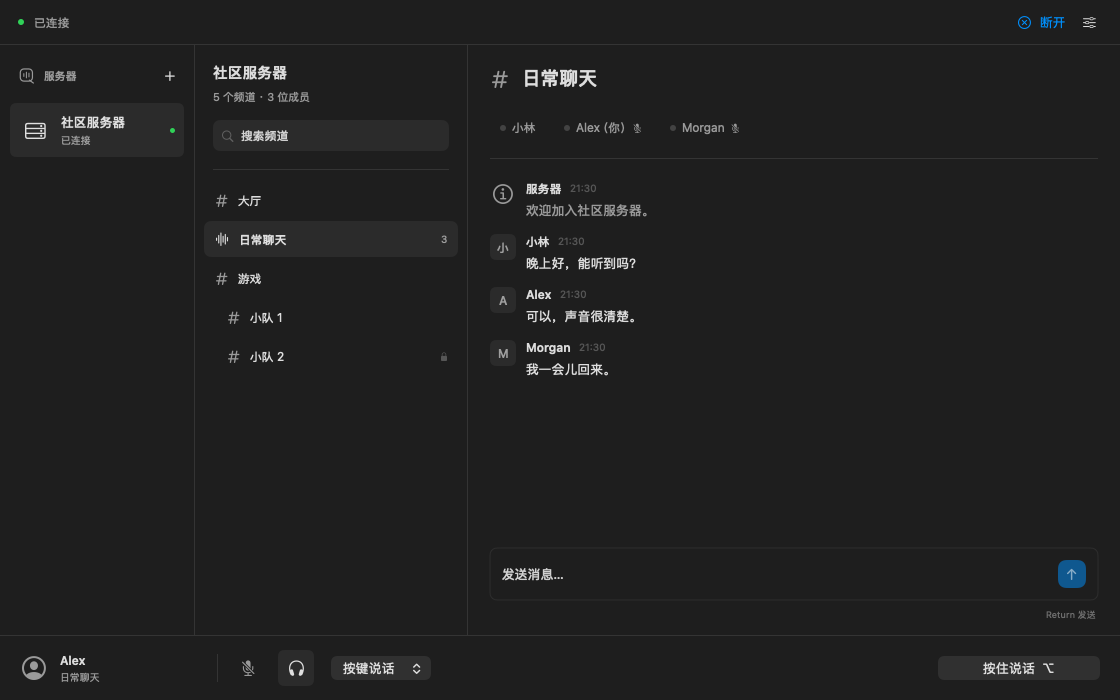
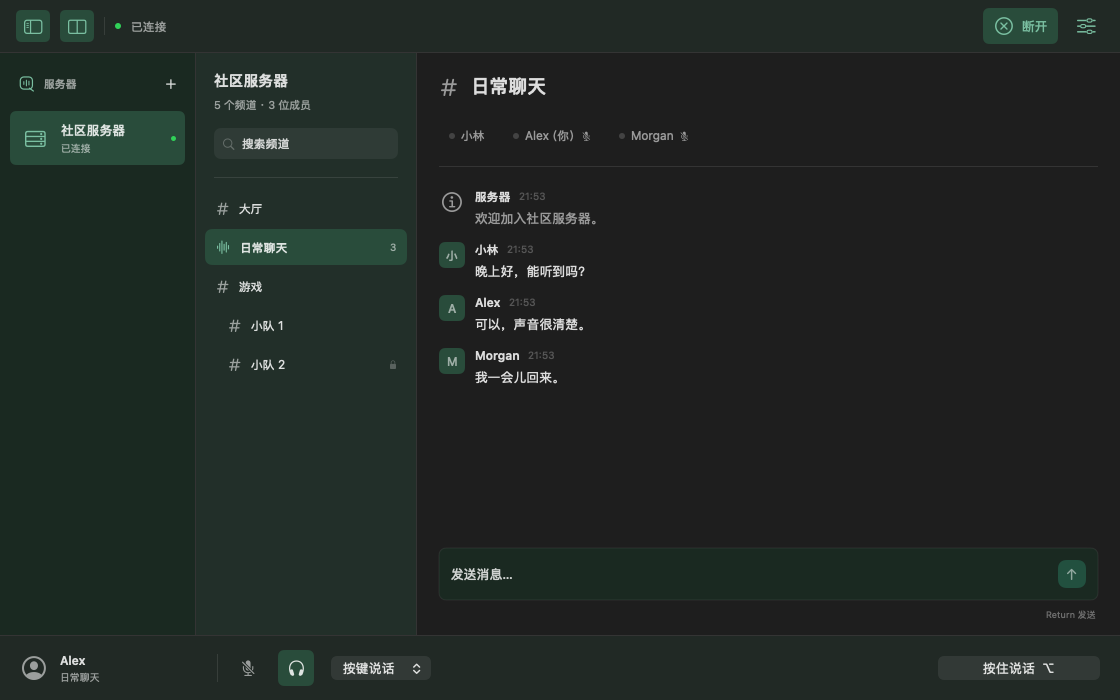
Restore green appearance and collapsible native panes in 0.1.5

diff --git a/Native/MainView.swift b/Native/MainView.swift
@@ -7,20 +7,26 @@ struct MainView: View {
     @State private var adding = false
     @State private var lockedChannel: Channel?
     @State private var channelPassword = ""
+    @AppStorage("showServerSidebar") private var showServers = true
+    @AppStorage("showChannelSidebar") private var showChannels = true
     var body: some View {
         VStack(spacing: 0) {
             header
             Divider()
-            HStack(spacing: 0) {
-                servers.frame(width: 194)
-                Divider()
-                channelList.frame(width: 272)
-                Divider()
-                conversation.frame(maxWidth: .infinity, maxHeight: .infinity)
+            HSplitView {
+                if showServers {
+                    servers.frame(minWidth: 170, idealWidth: 194, maxWidth: 260)
+                }
+                if showChannels {
+                    channelList.frame(minWidth: 220, idealWidth: 272, maxWidth: 360)
+                }
+                conversation.frame(minWidth: 360, maxWidth: .infinity, maxHeight: .infinity)
+                    .layoutPriority(1)
             }
             Divider()
             voiceBar
         }
+        .frame(minWidth: showServers && showChannels ? 920 : 680)
         .background(Palette.canvas)
         .sheet(isPresented: $client.showConnection) {
             ConnectionSheet(bookmark: client.selectedServer, isNew: false).environmentObject(client)
@@ -68,37 +74,58 @@ struct MainView: View {
     }
     private var header: some View {
         HStack(spacing: 10) {
+            sidebarButton("sidebar.left", name: "服务器栏", visible: $showServers)
+            sidebarButton("rectangle.split.2x1", name: "频道栏", visible: $showChannels)
+            Divider().frame(height: 18)
             Circle().fill(client.connected ? Palette.speaking : Color.secondary.opacity(0.4))
                 .frame(width: 6, height: 6)
             Text(client.status.label).font(.system(size: 12)).foregroundStyle(.secondary)
             Spacer()
-            if client.busy {
-                Button {
-                    client.disconnect()
-                } label: {
-                    Label("断开", systemImage: "xmark.circle")
-                }.buttonStyle(.borderless)
-            } else {
-                Button {
-                    client.showConnection = true
-                } label: {
-                    Label("连接", systemImage: "network")
-                }.buttonStyle(.bordered).controlSize(.small)
+            Button {
+                if client.busy { client.disconnect() } else { client.showConnection = true }
+            } label: {
+                HStack(spacing: 7) {
+                    Image(systemName: client.busy ? "xmark.circle" : "network")
+                        .font(.system(size: 18))
+                    Text(client.busy ? "断开" : "连接").font(.system(size: 13, weight: .medium))
+                }
+                .padding(.horizontal, 10).frame(height: 36)
+                .background(Palette.selection, in: RoundedRectangle(cornerRadius: 6))
             }
+            .buttonStyle(.plain).foregroundStyle(Palette.brand)
+            .help(client.busy ? "断开连接" : "连接服务器 ⌘K")
             Button {
                 client.showSettings = true
             } label: {
-                Image(systemName: "slider.horizontal.3").frame(width: 26, height: 26)
+                Image(systemName: "slider.horizontal.3").font(.system(size: 19))
+                    .frame(width: 36, height: 36)
             }
-            .buttonStyle(.plain).help("语音设置 ⌘,")
+            .buttonStyle(.plain).foregroundStyle(Palette.brand).help("语音设置 ⌘,")
+            .accessibilityLabel("语音设置")
         }
-        .padding(.horizontal, 18).frame(height: 44).background(Palette.sidebar)
+        .padding(.horizontal, 16).frame(height: 52).background(Palette.toolbar)
+    }
+    private func sidebarButton(_ icon: String, name: String, visible: Binding<Bool>) -> some View {
+        Button {
+            visible.wrappedValue.toggle()
+        } label: {
+            Image(systemName: icon).font(.system(size: 16))
+                .foregroundStyle(visible.wrappedValue ? Palette.brand : Color.secondary)
+                .frame(width: 34, height: 32)
+                .background(
+                    visible.wrappedValue ? Palette.selection : Color.clear,
+                    in: RoundedRectangle(cornerRadius: 5))
+        }
+        .buttonStyle(.plain)
+        .help((visible.wrappedValue ? "隐藏" : "显示") + name)
+        .accessibilityLabel((visible.wrappedValue ? "隐藏" : "显示") + name)
+        .accessibilityValue(visible.wrappedValue ? "展开" : "折叠")
     }
     private var servers: some View {
         VStack(alignment: .leading, spacing: 18) {
             HStack(spacing: 8) {
                 Image(nsImage: QuietSpeakIcon.template).renderingMode(.template)
-                    .foregroundStyle(.secondary).accessibilityHidden(true)
+                    .foregroundStyle(Palette.brand).accessibilityHidden(true)
                 Text("服务器").font(.system(size: 11, weight: .semibold)).foregroundStyle(.secondary)
                 Spacer()
                 Button {
@@ -118,7 +145,7 @@ struct MainView: View {
                                 Image(systemName: "server.rack").font(.system(size: 18))
                                     .foregroundStyle(
                                         client.selectedBookmark == item.id
-                                            ? Color.primary : Color.secondary
+                                            ? Palette.brand : Color.secondary
                                     )
                                     .frame(width: 32, height: 36)
                                 VStack(alignment: .leading, spacing: 4) {
@@ -202,7 +229,7 @@ struct MainView: View {
                     }.padding(.horizontal, 9).padding(.vertical, 12)
                 }
             }
-        }.background(Palette.canvas)
+        }.background(Palette.channelPanel)
     }
     private var flatChannels: [(channel: Channel, depth: Int)] {
         if !client.search.isEmpty {
@@ -236,7 +263,7 @@ struct MainView: View {
                 Image(systemName: joined ? "waveform" : "number").font(
                     .system(size: 13, weight: .medium)
                 )
-                .foregroundStyle(joined ? Color.primary : Color.secondary)
+                .foregroundStyle(joined ? Palette.brand : Color.secondary)
                 Text(channel.name).font(.system(size: 12, weight: selected ? .semibold : .regular))
                     .lineLimit(1)
                 Spacer(minLength: 2)
@@ -308,18 +335,20 @@ struct MainView: View {
                 ChatPane().environmentObject(client)
             }
         } else {
-            VStack(spacing: 12) {
-                Text(client.busy ? "正在连接…" : "选择服务器")
-                    .font(.system(size: 15, weight: .medium)).foregroundStyle(.secondary)
+            VStack(spacing: 16) {
+                Image(nsImage: QuietSpeakIcon.homepage).renderingMode(.template)
+                    .frame(width: 56, height: 56)
+                    .foregroundStyle(Palette.brand).accessibilityHidden(true)
+                Text("轻语").font(.system(size: 21, weight: .semibold))
                 if client.busy {
                     Text(client.statusDetail).font(.system(size: 12)).foregroundStyle(.secondary)
                         .multilineTextAlignment(.center).frame(maxWidth: 360)
                     ProgressView().controlSize(.small)
                 } else {
                     Button("连接服务器…") { client.showConnection = true }
-                        .buttonStyle(.bordered).controlSize(.regular)
+                        .buttonStyle(.borderedProminent).controlSize(.regular)
                 }
-            }.frame(maxWidth: .infinity, maxHeight: .infinity)
+            }.padding(32).frame(maxWidth: .infinity, maxHeight: .infinity)
         }
     }
     private var voiceBar: some View {
@@ -387,7 +416,7 @@ struct MainView: View {
                         client.transmitting ? Palette.accent : Color.secondary)
                 }
             }.padding(.horizontal, 20).frame(height: 64)
-        }.background(Palette.sidebar)
+        }.background(Palette.toolbar)
     }
     private func voiceButton(
         _ icon: String, label: String, active: Bool, action: @escaping () -> Void

diff --git a/Native/QuietSpeakApp.swift b/Native/QuietSpeakApp.swift
@@ -7,7 +7,7 @@ import SwiftUI
     var body: some Scene {
         WindowGroup("轻语") {
             MainView().environmentObject(client)
-                .frame(minWidth: 920, minHeight: 620)
+                .frame(minWidth: 680, minHeight: 620)
                 .tint(Palette.accent)
                 .onAppear { delegate.client = client }
         }
@@ -60,9 +60,23 @@ import SwiftUI
 }
 
 enum Palette {
-    static let accent = Color(nsColor: .systemBlue)
+    static let accent = Color(red: 0.16, green: 0.47, blue: 0.37)
     static let speaking = Color(nsColor: .systemGreen)
     static let canvas = Color(nsColor: .textBackgroundColor)
-    static let sidebar = Color(nsColor: .windowBackgroundColor)
-    static let selection = Color.primary.opacity(0.07)
+    static let brand = adaptive(light: (0.16, 0.47, 0.37), dark: (0.48, 0.75, 0.63))
+    static let sidebar = adaptive(light: (0.90, 0.94, 0.91), dark: (0.10, 0.16, 0.13))
+    static let channelPanel = adaptive(light: (0.96, 0.975, 0.96), dark: (0.135, 0.185, 0.16))
+    static let toolbar = adaptive(light: (0.95, 0.97, 0.95), dark: (0.13, 0.16, 0.145))
+    static let selection = adaptive(light: (0.81, 0.89, 0.84), dark: (0.16, 0.30, 0.23))
+
+    private static func adaptive(
+        light: (CGFloat, CGFloat, CGFloat), dark: (CGFloat, CGFloat, CGFloat)
+    ) -> Color {
+        Color(
+            nsColor: NSColor(name: nil) { appearance in
+                let rgb =
+                    appearance.bestMatch(from: [.aqua, .darkAqua]) == .darkAqua ? dark : light
+                return NSColor(srgbRed: rgb.0, green: rgb.1, blue: rgb.2, alpha: 1)
+            })
+    }
 }

diff --git a/Native/BrandMark.swift b/Native/BrandMark.swift
@@ -31,13 +31,16 @@ enum QuietSpeakIcon {
         }
     }
 
-    static let template: NSImage = {
-        let image = NSImage(size: NSSize(width: 18, height: 18), flipped: false) { rect in
-            draw(in: rect.insetBy(dx: 1, dy: 1), color: .black)
+    static let template = image(size: 18)
+    static let homepage = image(size: 56)
+
+    private static func image(size: CGFloat) -> NSImage {
+        let image = NSImage(size: NSSize(width: size, height: size), flipped: false) { rect in
+            draw(in: rect.insetBy(dx: size / 18, dy: size / 18), color: .black)
             return true
         }
         image.isTemplate = true
         image.accessibilityDescription = "轻语"
         return image
-    }()
+    }
 }

diff --git a/Scripts/make-icon.swift b/Scripts/make-icon.swift
@@ -5,7 +5,7 @@ import Foundation
     static func main() throws {
         let image = NSImage(size: NSSize(width: 1024, height: 1024))
         image.lockFocus()
-        NSColor(calibratedRed: 0.17, green: 0.22, blue: 0.29, alpha: 1).setFill()
+        NSColor(calibratedRed: 0.16, green: 0.39, blue: 0.30, alpha: 1).setFill()
         NSBezierPath(
             roundedRect: NSRect(x: 40, y: 40, width: 944, height: 944),
             xRadius: 210, yRadius: 210

diff --git a/README.en.md b/README.en.md
@@ -1,12 +1,14 @@
 # QuietSpeak
 
-A compact native macOS TeamSpeak 3 client, built with SwiftUI and Rust. **0.1.4 development preview**. The current UI is in Simplified Chinese.
+A compact native macOS TeamSpeak 3 client, built with SwiftUI and Rust. **0.1.5 development preview**. The current UI is in Simplified Chinese.
 
 [中文](README.md) · [MIT license](LICENSE) · [Contributing](CONTRIBUTING.md) · [Changelog](CHANGELOG.md) · [Roadmap](Docs/ROADMAP.md)
 
 QuietSpeak uses [ReSpeak/tsclientlib](https://github.com/ReSpeak/tsclientlib) for the TS3 protocol, CPAL for audio devices and Opus for audio coding. The native UI, application behavior, Swift/Rust bridge and device audio pipeline are implemented by QuietSpeak. Vendored sources retain their original licenses; see [Vendor documentation](Vendor/README.md).
 
-[GitHub](https://github.com/Green-hats/QuietSpeak) · [Development releases](https://github.com/Green-hats/QuietSpeak/releases) · [Issues](https://github.com/Green-hats/QuietSpeak/issues)
+[GitHub](https://github.com/Green-hats/QuietSpeak) · [Build status](https://github.com/Green-hats/QuietSpeak/actions) · [Issues](https://github.com/Green-hats/QuietSpeak/issues)
+
+Source is public; installer Releases remain drafts. Build locally using the instructions below.
 
 ## Interface
 
@@ -14,9 +16,13 @@ QuietSpeak uses [ReSpeak/tsclientlib](https://github.com/ReSpeak/tsclientlib) fo
 
 Content view rendered with fixture data. [Dark appearance](Docs/screenshots/quietspeak-dark.png).
 
+The two top-left buttons independently toggle the server and channel sidebars. Visibility persists across restarts; native dividers resize the panes. Green backgrounds distinguish the sidebars from the system content background in both appearances.
+
+The home logo is centered in the content pane. [Light home](Docs/screenshots/quietspeak-home-light.png) · [Dark home](Docs/screenshots/quietspeak-home-dark.png).
+
 ## Features
 
-- Native SwiftUI/AppKit interface, channel tree, member list and channel chat.
+- Green native SwiftUI/AppKit interface with independently collapsible, resizable sidebars, channel tree, member list and channel chat.
 - Server bookmarks, SRV/TSDNS discovery, persistent identity and reconnection.
 - OpusVoice/OpusMusic audio, mixing, resampling and startup jitter buffering.
 - Foreground push-to-talk, continuous microphone mode, mute, deafen and volume.

diff --git a/Docs/RELEASE_NOTES.md b/Docs/RELEASE_NOTES.md
@@ -1,14 +1,14 @@
-# QuietSpeak 0.1.4
+# QuietSpeak 0.1.5
 
 原生 macOS TeamSpeak 3 客户端，支持频道浏览、频道聊天和 Opus 语音。
 
-- 保留三栏布局，使用系统灰色、蓝色操作按钮和更简洁的选中状态。
-- 恢复标准 macOS 标题栏，将 Logo 放到服务器侧栏。
-- 删除口号、徽章及重复提示，精简成员与聊天样式。
-- Dock、侧栏、菜单栏共用自定义图标；菜单栏不再显示默认耳机图标。
-- 保留 0.1.3 的频道消息重复显示修复。
+- 恢复绿色主题，以不同深浅的背景区分三栏，适配浅色与深色外观。
+- 服务器栏与频道栏可独立折叠，记住显示状态；分隔线支持拖动调整宽度。
+- 首页 Logo 居中放在聊天内容区，Dock 图标同步为绿色。
+- 增大右上角连接与设置图标及点击区域。
+- 保留频道聊天重复显示修复。
 
-要求 macOS 14 或以上。下载与 CPU 对应的 App zip，解压后打开 `QuietSpeak.app`。版本仍为开发预览，使用 ad-hoc 签名，尚未公证。
+要求 macOS 14 或以上。使用与 CPU 对应的 App zip。版本仍为开发预览，使用 ad-hoc 签名，尚未公证。
 
 语音支持 OpusVoice/OpusMusic。全局按键说话、回声消除、私信发送、文件传输及旧编码支持仍未实现。双端通话、蓝牙和更多系统版本仍需手动验证。
 

diff --git a/CHANGELOG.md b/CHANGELOG.md
@@ -1,5 +1,12 @@
 # Changelog
 
+## 0.1.5 — 2026-10-04
+
+- 恢复绿色主题，用不同深浅的背景区分服务器、频道和聊天三栏，适配深色外观。
+- 改为原生可拖动分隔线，服务器栏与频道栏可分别折叠，并记住显示状态。
+- 首页恢复品牌 Logo，居中放在聊天内容区；Dock 图标同步为绿色。
+- 放大右上角连接和设置图标及点击区域。
+
 ## 0.1.4 — 2026-10-04
 
 - 保留三栏布局，改用系统灰色背景、蓝色操作按钮和更克制的选中样式。
